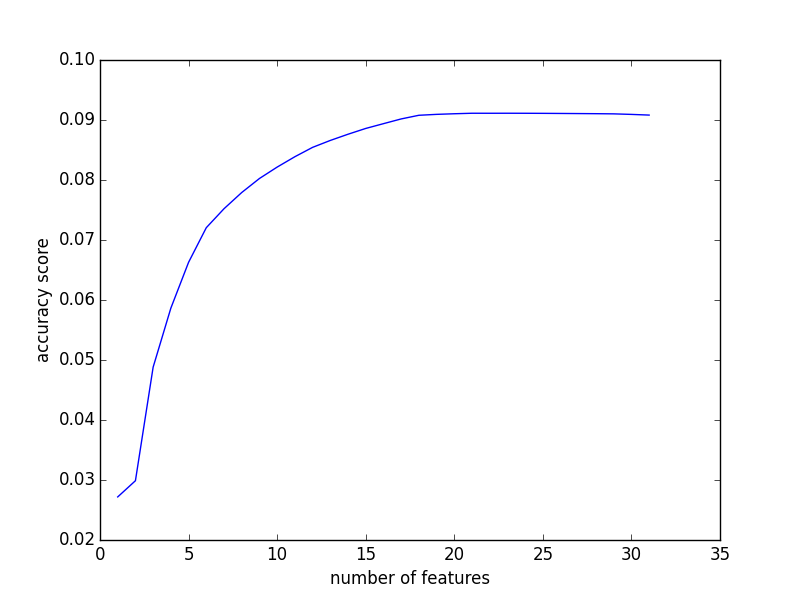
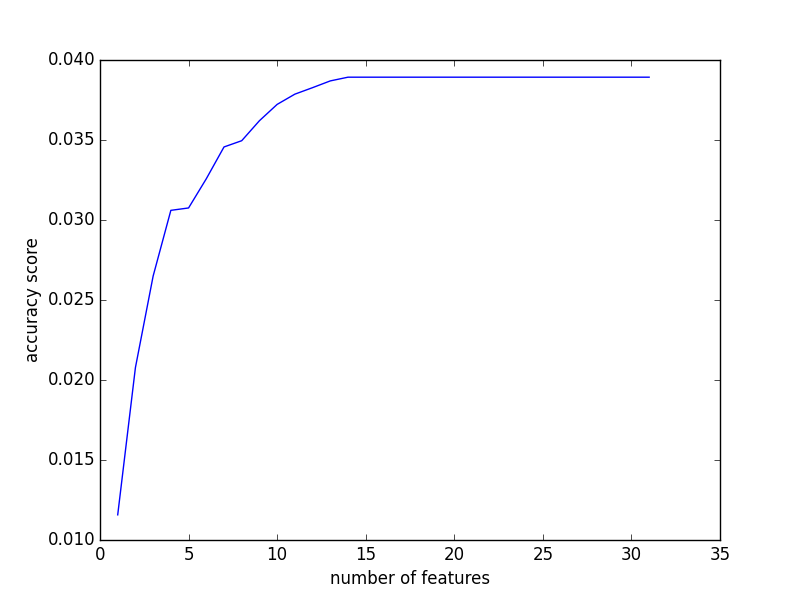
added bagging

diff --git a/Property Inspection Prediction/main.py b/Property Inspection Prediction/main.py
@@ -1,9 +1,14 @@
 import numpy as np
 import pandas as pd
 from sklearn.svm import SVR
+import sklearn
+from sklearn.ensemble.forest import RandomForestRegressor
 from sklearn.linear_model import Ridge as rg
 from sklearn.feature_selection import RFECV
+from sklearn.ensemble import GradientBoostingRegressor
+from sklearn.ensemble import BaggingRegressor
 import os.path
+import re
 import matplotlib.pyplot as plt
 # feature selection
 from data_munge import munge
@@ -13,21 +18,35 @@ if os.path.isfile('train_clean.csv'):
 else:
      train_data = munge('train')
 
-
+col_to_remove = ['T1_V10', 'T1_V11', 'T1_V13', 'T1_V14', 'T1_V17', 'T1_V5', 'T1_V6', 'T1_V9', 'T2_V10', 'T2_V11', 'T2_V12', 'T2_V13', 'T2_V3', 'T2_V4', 'T2_V6', 'T2_V7', 'T2_V8']
 y = train_data['Hazard']
 X = train_data.drop(['Id', 'Hazard'],axis=1)
+'''
+for c in X.columns:
+    for col in col_to_remove:
+        if re.match(col, c):
+            X = X.drop([c],axis=1)
+            break
+'''
 X = pd.concat([pd.DataFrame(np.ones(len(y))), X], axis = 1)
 
-#clf = rg(alpha=0)
+base_estimator = GradientBoostingRegressor(n_estimators=1000, loss='ls', verbose = 2)
+clf = BaggingRegressor(base_estimator=base_estimator, n_estimators=20, oob_score=True, n_jobs=-1)
+#clf = GradientBoostingRegressor(n_estimators=2000, loss='huber', verbose = 2)
+#clf = RandomForestRegressor(n_estimators=5000, n_jobs=-1)
+#clf = rg(alpha=0.1)
+#clf = sklearn.linear_model.Lasso(alpha=0.1)
 #clf = SVR()
-clf = RFECV(estimator=rg(alpha=0.1), step=1, cv=5)
+#clf = RFECV(estimator=rg(alpha=0.1), step=1, cv=5)
+
 clf.fit(X, y)
+'''
 plt.figure()
 plt.xlabel("Number of features selected")
 plt.ylabel("Cross validation score (default scoring of the estimator)")
 plt.plot(range(1, len(clf.grid_scores_) + 1), clf.grid_scores_)
 plt.savefig('cv.png')
-
+'''
 if os.path.isfile('test_clean.csv'):
      test_data = pd.read_csv('test_clean.csv')
 else:
@@ -35,6 +54,13 @@ else:
 
 Id = test_data['Id']
 test_data = test_data[[col for col in test_data.columns if col != 'Id']]
+'''
+for c in test_data.columns:
+    for col in col_to_remove:
+        if re.match(col, c):
+            test_data = test_data.drop([c],axis=1)
+            break
+'''
 test_data = pd.concat([pd.DataFrame(np.ones(len(test_data))), test_data], axis=1)
 predictions = clf.predict(test_data)
 #predictions = np.round(predictions)

diff --git a/Property Inspection Prediction/utilities.py b/Property Inspection Prediction/utilities.py
@@ -3,6 +3,7 @@ from sklearn.svm import SVR
 from sklearn import cross_validation
 from matplotlib import pyplot as plt
 from sklearn.linear_model import Ridge as rg
+import sklearn
 import re
 import os
 train = pd.read_csv('train.csv')
@@ -27,7 +28,8 @@ def var_select():
     if os.path.exists('feature_selection_log.txt'):
         os.remove('feature_selection_log.txt')
     #clf = SVR()
-    clf = rg(alpha=0.1)
+    #clf = rg(alpha=0.1)
+    clf = sklearn.linear_model.Lasso(alpha=0.1)
     min_features = 1
 
     #raw_cols = [u'T1_V1', u'T1_V2', u'T1_V3', u'T1_V4', u'T1_V5', u'T1_V6', u'T1_V7']
@@ -52,13 +54,13 @@ def var_select():
         # find the worst col to drop
         for col in remain_cols:
             x = X[[c for c in X.columns if not re.match(col, c)]]
-            score = cross_validation.cross_val_score(clf, x, y, cv=3).mean()
+            score = cross_validation.cross_val_score(clf, x, y, cv=5).mean()
 
             if score > best_score:
                 best_score = score
                 worst_col = col
         
-        dropped_cols.append(worst_col)
+        dropped_cols.append('\''+worst_col+'\'')
         
         remain_cols.remove(worst_col)
         X = X[[c for c in X.columns if not re.match(worst_col, c)]]
